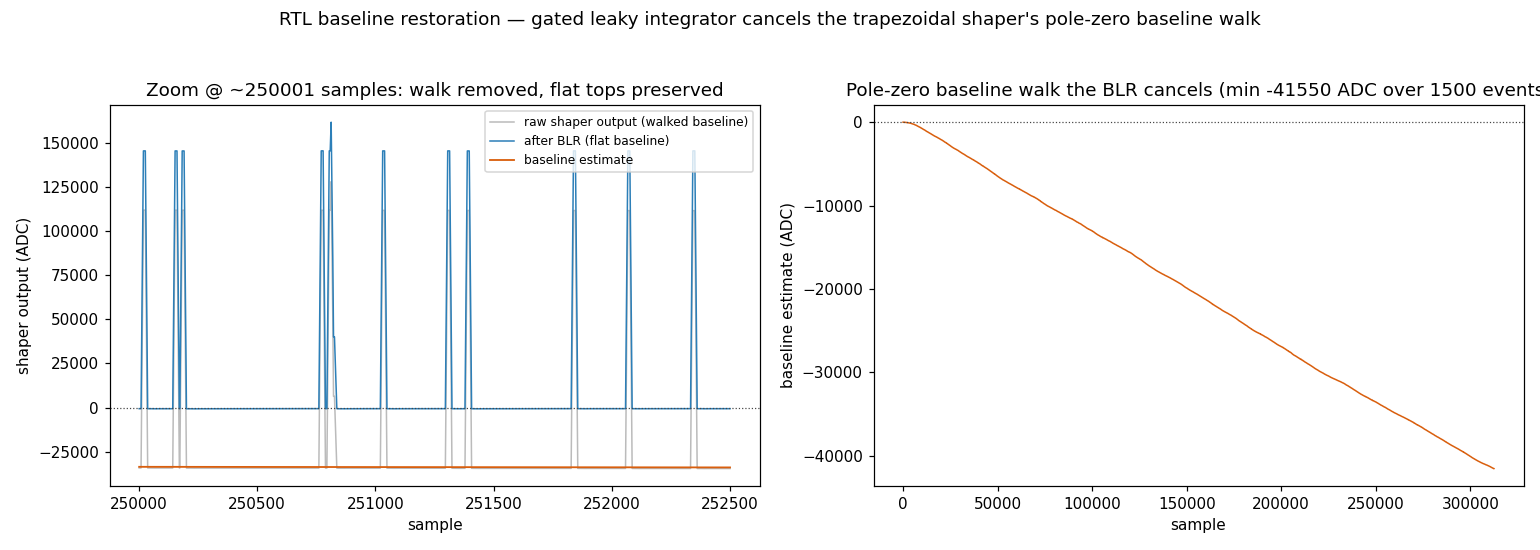
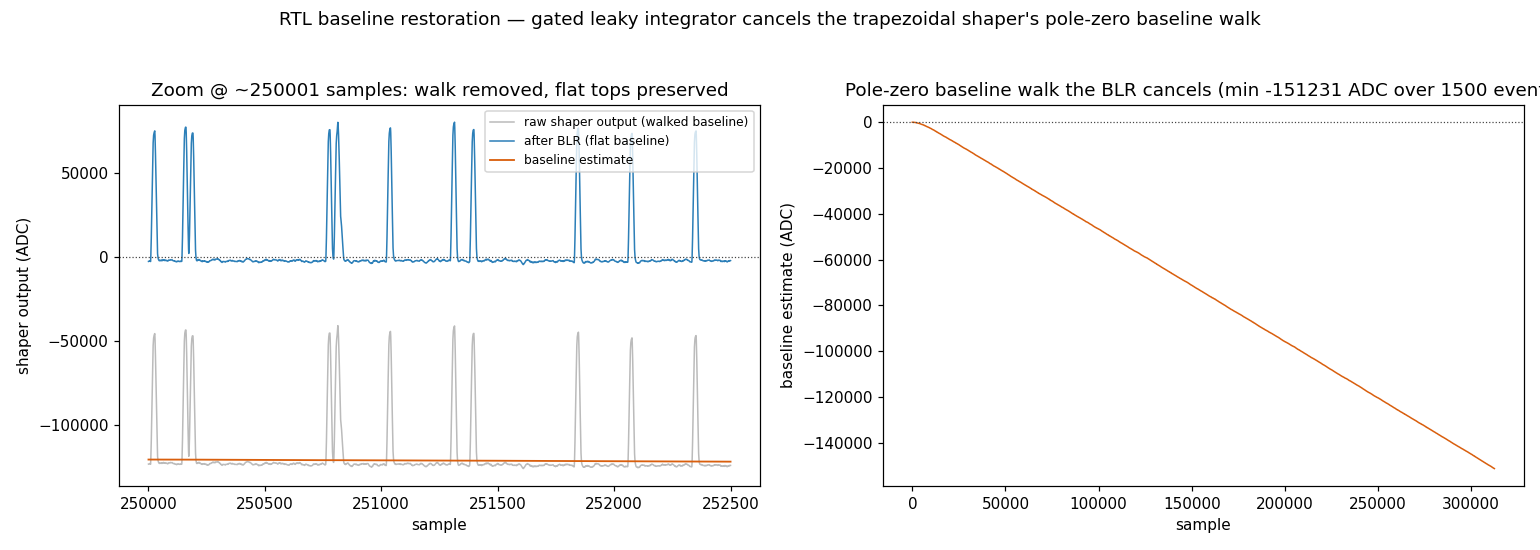
Theme 30: realistic ADC front-end (noise, finite rise, intrinsic res, clipping)
The waveform driving the RTL was near-ideal (instantaneous-rise single-exp,
zero noise, no clip), so the recovered photopeak was a delta and the shaper had
no noise floor to fight. Make the front-end realistic so the simulation is
meaningful. rtl/event_stream.rasterize now models, all controllable:

- intrinsic (photostatistical) resolution: per-event amplitude smear, relative
  FWHM ~ 1/sqrt(E) (default 6% @ 662, GAGG-ish);
- finite rise / ballistic deficit: a bi-exponential pulse whose tail is still
  a*exp(-t/tau), so the pole-zero and calibration are unchanged;
- white electronic noise (keV-equivalent RMS per sample);
- ADC clip + quantize to +/-32767 (16-bit), so pile-up stacks saturate.

frontend_study.py -> frontend.png: the recovered Cs-137 spectrum now has a
realistic ~6.4% FWHM photopeak (was a delta) + Compton continuum + pile-up
tail; the resolution budget splits electronic 2.3% (+) intrinsic 6.0% = 6.4%
in quadrature. Side effect: the un-cancelled finite rise enlarges the pole-zero
baseline walk (-47k -> -150k ADC), so theme 29's BLR matters more.

Bit-exactness untouched (rasterize called once, same noisy wave to RTL and
reference) -> cocotb shaper 3/3 + BLR still pass. Codex-verified; fixed
calibrate_flat_per_kev ignoring its adc_per_kev arg. Set intrinsic_fwhm=0,
noise_kev=0, tau_rise=0 for the old ideal waveform.

44 C# + 4 cocotb tests green.

Claude-Session: https://claude.ai/code/session_01JzXSNQYoWEuh1nUS9rXAso

diff --git a/rtl/event_stream.py b/rtl/event_stream.py
@@ -14,6 +14,7 @@ full-length exp_pulse while keeping the build O(events x pulse_support) instead 
 """
 import math
 import os
+import random
 import trap_ref
 
 
@@ -39,34 +40,67 @@ def read_stream(path=None):
     return events, meta
 
 
-def rasterize(events, tau=trap_ref.TAU_SAMPLES, adc_per_kev=trap_ref.ADC_PER_KEV, tail_pad=128):
-    """Sum every event's exponential pulse into one ADC waveform (list of ints).
+def rasterize(events, tau=trap_ref.TAU_SAMPLES, tau_rise=trap_ref.TAU_RISE_SAMPLES,
+              adc_per_kev=trap_ref.ADC_PER_KEV, noise_kev=trap_ref.NOISE_KEV,
+              adc_max=trap_ref.ADC_MAX, intrinsic_fwhm=trap_ref.INTRINSIC_FWHM,
+              intrinsic_ref_kev=trap_ref.INTRINSIC_REF_KEV, seed=1, tail_pad=128):
+    """Build the realistic ADC waveform for the event stream (list of ints). Real front-end effects, so
+    the shaper is not fed an idealized noiseless step train:
 
-    Bit-identical to summing full-length trap_ref.exp_pulse/add_pulse contributions: each pulse is
-    walked from its arrival until its rounded sample first hits 0 (monotone decay => all later
-    samples are 0 too). tail_pad leaves room after the last arrival for its flat top to form."""
+      * per-event INTRINSIC resolution — each pulse's amplitude fluctuates by the scintillator+SiPM
+        photostatistics (intrinsic_fwhm FWHM at intrinsic_ref_kev, scaling 1/sqrt(E));
+      * FINITE RISE — a bi-exponential pulse (rise tau_rise, fall tau) → ballistic deficit;
+      * white ELECTRONIC noise (noise_kev keV-equivalent RMS) on every sample — the floor the shaper fights;
+      * ADC CLIP + quantize to +/- adc_max (16-bit), so pile-up stacks saturate.
+
+    Set intrinsic_fwhm=0, noise_kev=0, tau_rise=0 to recover the old ideal waveform. `seed` fixes both the
+    amplitude and the sample-noise RNG streams (reproducible)."""
     if not events:
         return []
     length = max(s for s, _ in events) + tail_pad
-    wave = [0] * length
+    wave = [0.0] * length
+    amp_rng = random.Random(seed + 777)     # per-event amplitude (intrinsic resolution) — its own stream
+    inv2355 = 1.0 / 2.3548
     for n0, e_kev in events:
-        a = e_kev * adc_per_kev
-        t = n0
-        while t < length:
-            val = int(round(a * math.exp(-(t - n0) / tau)))
-            if val == 0 and t > n0:
-                break                       # decayed below 0.5 ADC — rest is exactly 0
-            wave[t] += val
-            t += 1
-    return wave
+        e_eff = e_kev
+        if intrinsic_fwhm > 0.0 and e_kev > 0.0:
+            # relative sigma grows as 1/sqrt(E): rel_FWHM(E) = intrinsic_fwhm * sqrt(ref/E).
+            rel_sigma = intrinsic_fwhm * inv2355 * math.sqrt(intrinsic_ref_kev / e_kev)
+            e_eff = e_kev * (1.0 + amp_rng.gauss(0.0, rel_sigma))
+            if e_eff < 0.0:
+                e_eff = 0.0
+        a = e_eff * adc_per_kev
+        # bounded support: the fall term a*exp(-dt/tau) drops below ~0.5 ADC by here (rise term is smaller)
+        support = int(math.ceil(tau * math.log(2.0 * abs(a) + 2.0))) + 4
+        end = min(length, n0 + support)
+        for t in range(n0, end):
+            dt = t - n0
+            fall = math.exp(-dt / tau)
+            rise = math.exp(-dt / tau_rise) if tau_rise > 0.0 else 0.0
+            wave[t] += a * (fall - rise)
+
+    sigma = noise_kev * adc_per_kev
+    noise_rng = random.Random(seed)
+    out = [0] * length
+    for i in range(length):
+        v = wave[i] + (noise_rng.gauss(0.0, sigma) if sigma > 0.0 else 0.0)
+        if v > adc_max:
+            v = adc_max
+        elif v < -adc_max:
+            v = -adc_max
+        out[i] = int(round(v))
+    return out
 
 
 def calibrate_flat_per_kev(rise=trap_ref.RISE, flat=trap_ref.FLAT, m_q8=trap_ref.M_Q8,
-                           tau=trap_ref.TAU_SAMPLES, adc_per_kev=trap_ref.ADC_PER_KEV, ref_kev=662.0):
-    """Flat-top height the shaper produces per keV, from ONE isolated reference pulse (so recovered
-    energy = flat_top / this). Uses the same integer reference as the RTL, so it IS the RTL gain."""
+                           tau=trap_ref.TAU_SAMPLES, tau_rise=trap_ref.TAU_RISE_SAMPLES,
+                           adc_per_kev=trap_ref.ADC_PER_KEV, ref_kev=662.0):
+    """Flat-top height the shaper produces per keV, from ONE isolated NOISELESS reference pulse (so
+    recovered energy = flat_top / this). Uses the SAME finite-rise pulse model as the rasterizer, so the
+    gain already includes the ballistic deficit; noise is excluded (it is a deterministic gain)."""
     n0 = 4 * rise
-    pulse = trap_ref.exp_pulse(n0 + rise + flat + 8 * int(math.ceil(tau)) + 8, n0, ref_kev, tau)
+    length = n0 + rise + flat + 8 * int(math.ceil(tau)) + 8
+    pulse = [int(round(v)) for v in trap_ref.biexp_pulse(length, n0, ref_kev, tau, tau_rise, adc_per_kev)]
     shaped = trap_ref.trap_shape(pulse, rise, flat, m_q8)
     return max(shaped) / ref_kev
 

diff --git a/rtl/frontend_study.py b/rtl/frontend_study.py
@@ -1,0 +1,109 @@
+"""Realistic front-end: the recovered energy spectrum and its resolution budget.
+
+The ADC waveform now carries real front-end effects (event_stream.rasterize): a finite rise (ballistic
+deficit), a white electronic-noise floor, per-event intrinsic photostatistics, and ADC clipping — so the
+shaper has a real noise floor to fight and the recovered Cs-137 spectrum has a REALISTIC photopeak width
+instead of a delta function. This plots (1) the recovered spectrum — 662 photopeak + Compton continuum +
+a pile-up tail — and (2) the photopeak FWHM budget: electronic and intrinsic contributions add in
+quadrature to a realistic ~6.5% at 662 keV.
+
+Run `montecarlo eventstream <cfg>` first, then `python frontend_study.py`.
+"""
+import math
+import random
+import statistics
+import matplotlib
+matplotlib.use("Agg")
+import matplotlib.pyplot as plt
+
+import trap_ref
+import event_stream
+
+FS_HZ = 100e6
+FLAT = trap_ref.FLAT
+
+
+def overlay_rate(energies, rate_kcps, seed=2):
+    rng = random.Random(seed)
+    mean_gap = FS_HZ / (rate_kcps * 1e3)
+    t, ev = 0.0, []
+    for e in energies:
+        t += -math.log(1.0 - rng.random()) * mean_gap
+        ev.append((int(round(t)), e))
+    return ev
+
+
+def recover(events, rise, intrinsic_fwhm, noise_kev):
+    """(all recovered energies, isolated-photopeak FWHM %) at this ramp length."""
+    wave = event_stream.rasterize(events, intrinsic_fwhm=intrinsic_fwhm, noise_kev=noise_kev)
+    shaped = trap_ref.trap_shape(wave, rise, FLAT, trap_ref.M_Q8)
+    k = event_stream.calibrate_flat_per_kev(rise=rise, flat=FLAT)
+    iso = rise + FLAT + 8 * int(math.ceil(trap_ref.TAU_SAMPLES))
+    arr = [s for s, _ in events]
+    allrec, isopk = [], []
+    for i, (n0, e) in enumerate(events):
+        r = event_stream.flat_top(shaped, n0, rise=rise, flat=FLAT) / k
+        allrec.append(r)
+        if e < 620:
+            continue
+        left = n0 - arr[i - 1] if i > 0 else 10 ** 9
+        right = arr[i + 1] - n0 if i + 1 < len(events) else 10 ** 9
+        if min(left, right) >= iso:
+            isopk.append(r)
+    fwhm = None
+    if len(isopk) >= 20:
+        m, sd = statistics.mean(isopk), statistics.pstdev(isopk)
+        fwhm = 2.3548 * sd / m * 100.0
+    return allrec, fwhm
+
+
+def main():
+    events, _ = event_stream.read_stream()
+    energies = [e for _, e in events]
+
+    fig, ax = plt.subplots(1, 2, figsize=(13, 5.0))
+
+    # ---- Panel 1: the recovered spectrum (realistic photopeak + continuum + pile-up tail) ----
+    ev = overlay_rate(energies, 500)
+    allrec, fwhm = recover(ev, trap_ref.RISE, trap_ref.INTRINSIC_FWHM, trap_ref.NOISE_KEV)
+    bins = [i * 8 for i in range(0, 120)]
+    ax[0].hist(energies, bins=bins, histtype="step", color="#999", lw=1.2, label="deposited (MC truth)")
+    ax[0].hist(allrec, bins=bins, histtype="stepfilled", color="#2c7fb8", alpha=0.55,
+               label="recovered by the shaper")
+    ax[0].axvline(661.7, color="#d95f0e", ls=":", lw=1)
+    if fwhm:
+        ax[0].annotate(f"662 keV photopeak\nFWHM {fwhm:.1f}%", (661.7, 0), (430, 60),
+                       fontsize=9, color="#d95f0e", arrowprops=dict(arrowstyle="->", color="#d95f0e"))
+    ax[0].set_xlabel("energy (keV)"); ax[0].set_ylabel("events / 8 keV")
+    ax[0].set_title("Recovered spectrum @ 500 kcps\nrealistic photopeak width + Compton continuum + pile-up tail")
+    ax[0].set_xlim(0, 900); ax[0].legend(fontsize=8)
+
+    # ---- Panel 2: the resolution budget at the default ramp (electronic vs intrinsic vs total) ----
+    rows = [
+        ("electronic only\n(3 keV ENC)", 0.0, trap_ref.NOISE_KEV, "#2c7fb8"),
+        ("intrinsic only\n(6% @ 662)", trap_ref.INTRINSIC_FWHM, 0.0, "#7fbf7b"),
+        ("FULL front-end", trap_ref.INTRINSIC_FWHM, trap_ref.NOISE_KEV, "#d95f0e"),
+    ]
+    labels, vals, cols = [], [], []
+    for lab, ifw, nk, c in rows:
+        _, f = recover(ev, trap_ref.RISE, ifw, nk)
+        labels.append(lab); vals.append(f); cols.append(c)
+    bars = ax[1].bar(range(len(labels)), vals, color=cols)
+    ax[1].set_xticks(range(len(labels)))
+    ax[1].set_xticklabels(labels, fontsize=8)
+    ax[1].set_ylabel("662 keV photopeak FWHM (%)")
+    ax[1].set_title(f"Resolution budget @ RISE={trap_ref.RISE}\n(electronic + intrinsic add in quadrature)")
+    for b, v in zip(bars, vals):
+        ax[1].text(b.get_x() + b.get_width() / 2, v + 0.05, f"{v:.2f}%", ha="center", fontsize=8)
+
+    fig.suptitle("Realistic front-end: finite rise + electronic noise + intrinsic photostatistics + ADC clipping "
+                 "— the shaper now has a real noise floor to fight", fontsize=11)
+    fig.tight_layout(rect=(0, 0, 1, 0.94))
+    fig.savefig("frontend.png", dpi=110)
+    print("wrote frontend.png")
+    for lab, ifw, nk, _ in rows:
+        print(f"  {lab.splitlines()[0]:16}: {recover(ev, trap_ref.RISE, ifw, nk)[1]:.2f}% FWHM")
+
+
+if __name__ == "__main__":
+    main()

diff --git a/rtl/trap_ref.py b/rtl/trap_ref.py
@@ -13,6 +13,13 @@ M = 1.0 / (math.exp(1.0 / TAU_SAMPLES) - 1.0)      # pole-zero deconvolution con
 M_Q8 = round(M * 256)                               # 1156
 ADC_PER_KEV = 4.0
 
+# --- realistic front-end parameters (used by the MC-stream rasterizer, not the pure shaper unit tests) ---
+TAU_RISE_SAMPLES = 2.0     # finite pulse rise (scint + SiPM + preamp) ~ 20 ns at 100 MSPS -> ballistic deficit
+NOISE_KEV = 3.0            # white electronic noise floor, keV-equivalent RMS at the ADC input (ENC)
+ADC_MAX = 32767            # 16-bit signed ADC full scale — the shaper input port width (pile-up stacks clip)
+INTRINSIC_FWHM = 0.06      # scintillator+SiPM photostatistical resolution (FWHM fraction) at INTRINSIC_REF_KEV
+INTRINSIC_REF_KEV = 662.0  # ... scaling as 1/sqrt(E) (Poisson photoelectron statistics). GAGG ~6-9% @ 662.
+
 
 def trap_shape(samples, rise=RISE, flat=FLAT, m_q8=M_Q8):
     """s[n] sequence for the recursive trapezoidal filter (matches trapezoidal_shaper.sv)."""
@@ -49,11 +56,25 @@ def blr(xs, gate=4096, frac=12):
 
 
 def exp_pulse(n, n0, amp_kev, tau=TAU_SAMPLES):
-    """One scintillation pulse: instantaneous rise at n0, exponential decay tau (samples)."""
+    """One scintillation pulse: instantaneous rise at n0, exponential decay tau (samples). Used by the pure
+    shaper unit tests (filter correctness); the realistic front-end uses biexp_pulse via the rasterizer."""
     w = [0] * n
     a = amp_kev * ADC_PER_KEV
     for t in range(n0, n):
         w[t] += int(round(a * math.exp(-(t - n0) / tau)))
+    return w
+
+
+def biexp_pulse(n, n0, amp_kev, tau=TAU_SAMPLES, tau_rise=TAU_RISE_SAMPLES, adc_per_kev=ADC_PER_KEV):
+    """One scintillation + front-end pulse with a FINITE rise: a*(exp(-t/tau) - exp(-t/tau_rise)). The
+    tail is a*exp(-t/tau) so the shaper's pole-zero and the energy calibration are unchanged; the rise
+    (tau_rise < tau) is the realistic part — it introduces a small ballistic deficit in the flat top.
+    Returns a float array (the caller adds noise, clips and quantizes)."""
+    w = [0.0] * n
+    a = amp_kev * adc_per_kev
+    for t in range(n0, n):
+        dt = t - n0
+        w[t] = a * (math.exp(-dt / tau) - math.exp(-dt / tau_rise))
     return w
 
 

diff --git a/AGENTS.findings.md b/AGENTS.findings.md
@@ -799,3 +799,31 @@ study worked around it by reading each flat top *relative* to the local pre-puls
   must be inside GATE — the stream starts at 0, so it acquires). **44 C# + 4 cocotb tests green.** Reproduce:
   `montecarlo eventstream samples/scenario.json 500 1500` then `cd rtl && python run_cocotb.py` and
   `python blr_study.py`.
+
+## 30. Realistic ADC front-end — the shaper stops seeing an idealized signal — `rtl/event_stream.py`
+The waveform driving the RTL (theme 27) was near-ideal: instantaneous-rise single-exponential pulses,
+**zero noise**, no clipping — so the recovered photopeak was a delta function and the trapezoidal shaper had
+nothing to fight (its whole purpose is to maximize SNR against a noise floor). Made the front-end realistic
+(user: "the sim only means something if the front-end is realistic"). `rasterize` now models, all controllable:
+- **Intrinsic (photostatistical) resolution** — each pulse's amplitude fluctuates by the scintillator+SiPM
+  light statistics, relative FWHM ∝ 1/√E (`intrinsic_fwhm` at `intrinsic_ref_kev`, default 6 % @ 662, GAGG-ish).
+- **Finite rise (ballistic deficit)** — a bi-exponential pulse `a·(e^{-t/τ} − e^{-t/τ_rise})` (`trap_ref.biexp_pulse`).
+  Its TAIL is still `a·e^{-t/τ}`, so the single-τ pole-zero and the energy calibration are unchanged; the rise
+  is the realistic part. (Side effect: the un-cancelled rise term enlarges the pole-zero **baseline walk** to
+  ~-150000 ADC over the stream, from ~-47000 with ideal pulses — so theme 29's BLR matters more, not less.)
+- **White electronic noise** — a Gaussian floor (`noise_kev` keV-equivalent RMS, default 3) on every sample:
+  the noise the shaper actually averages against.
+- **ADC clip + quantize** — to ±`adc_max` (16-bit), so pile-up stacks saturate (honours the shaper's input port).
+- **Result** (`rtl/frontend_study.py` → `rtl/frontend.png`): the recovered Cs-137 spectrum now has a **realistic
+  ~6.4 % FWHM photopeak** (was a delta) plus the Compton continuum and a pile-up tail. The resolution **budget**
+  splits cleanly — electronic-only **2.3 %**, intrinsic-only **6.0 %**, FULL **6.4 %** — and the two add in
+  **quadrature** (√(6.0²+2.3²)=6.43 %), exactly as they should. The recovery-vs-rate study now reflects real
+  resolution (±5 % recovery 79/67/36 % at 100/500/2000 kcps, down from the noiseless 92/78/44 %).
+- Bit-exactness is untouched: rasterize is called once and its (noisy, clipped) waveform is fed to BOTH the RTL
+  and the integer reference, so the cocotb shaper + BLR tests stay **bit-for-bit** (the noise is identical on
+  both sides). Set `intrinsic_fwhm=0, noise_kev=0, tau_rise=0` to recover the old ideal waveform.
+- **Codex-verified**: bi-exp preserves the pole-zero tail + ballistic deficit; 1/√E intrinsic scaling on the
+  deposited energy is correct photostatistics; white-noise + clip is a sound simplified ADC model; quadrature
+  budget checks; calibration is the noiseless deficit-corrected mean gain. **Fix**: `calibrate_flat_per_kev`
+  ignored its `adc_per_kev` arg (biexp_pulse hardcoded the constant) → threaded it through. 44 C# + 4 cocotb
+  tests green. Reproduce: `montecarlo eventstream samples/scenario.json 500 1500` then `cd rtl && python frontend_study.py`.

diff --git a/BACKLOG.md b/BACKLOG.md
@@ -31,8 +31,15 @@ Deferred work, captured so we don't forget. Not in current scope. See
   proxy — direct vs pipelined shaper — see theme 25.
 
 ### Front-end integration
-- Fold `rtl/frontend_model.py` (photoelectron budget → energy resolution) into the C#
-  `EnergyResolutionFwhm` derivation, and model DCR-as-background.
+- **Realistic ADC front-end DONE (theme 30)**: `rtl/event_stream.rasterize` now models intrinsic (1/√E)
+  resolution, finite rise / ballistic deficit, white electronic noise, and ADC clipping → realistic ~6.4%
+  photopeak, resolution budget (electronic ⊕ intrinsic), `rtl/frontend.png`. Codex-verified.
+- Still open: fold `rtl/frontend_model.py` (photoelectron budget → energy resolution) into the **C#**
+  `EnergyResolutionFwhm` derivation (the theme-30 model lives in the Python/RTL layer), and model DCR-as-background.
+- **CR-RC / cusp shaping comparison** now has a real noise floor to be meaningful against (theme 30) — the
+  natural next RTL step: sweep shaping time / compare filters on the realistic waveform for the SNR vs
+  pile-up optimum (theme 30's frontend_study has the resolution machinery; a rigorous pile-up-inclusive
+  photopeak-fit is the missing piece).
 
 ### Background (theme 28 — core model DONE, refinements open)
 - **Ambient background is now a controllable opt-in** (`SimulationConfig.Background`, BSR knob) — uncoded
